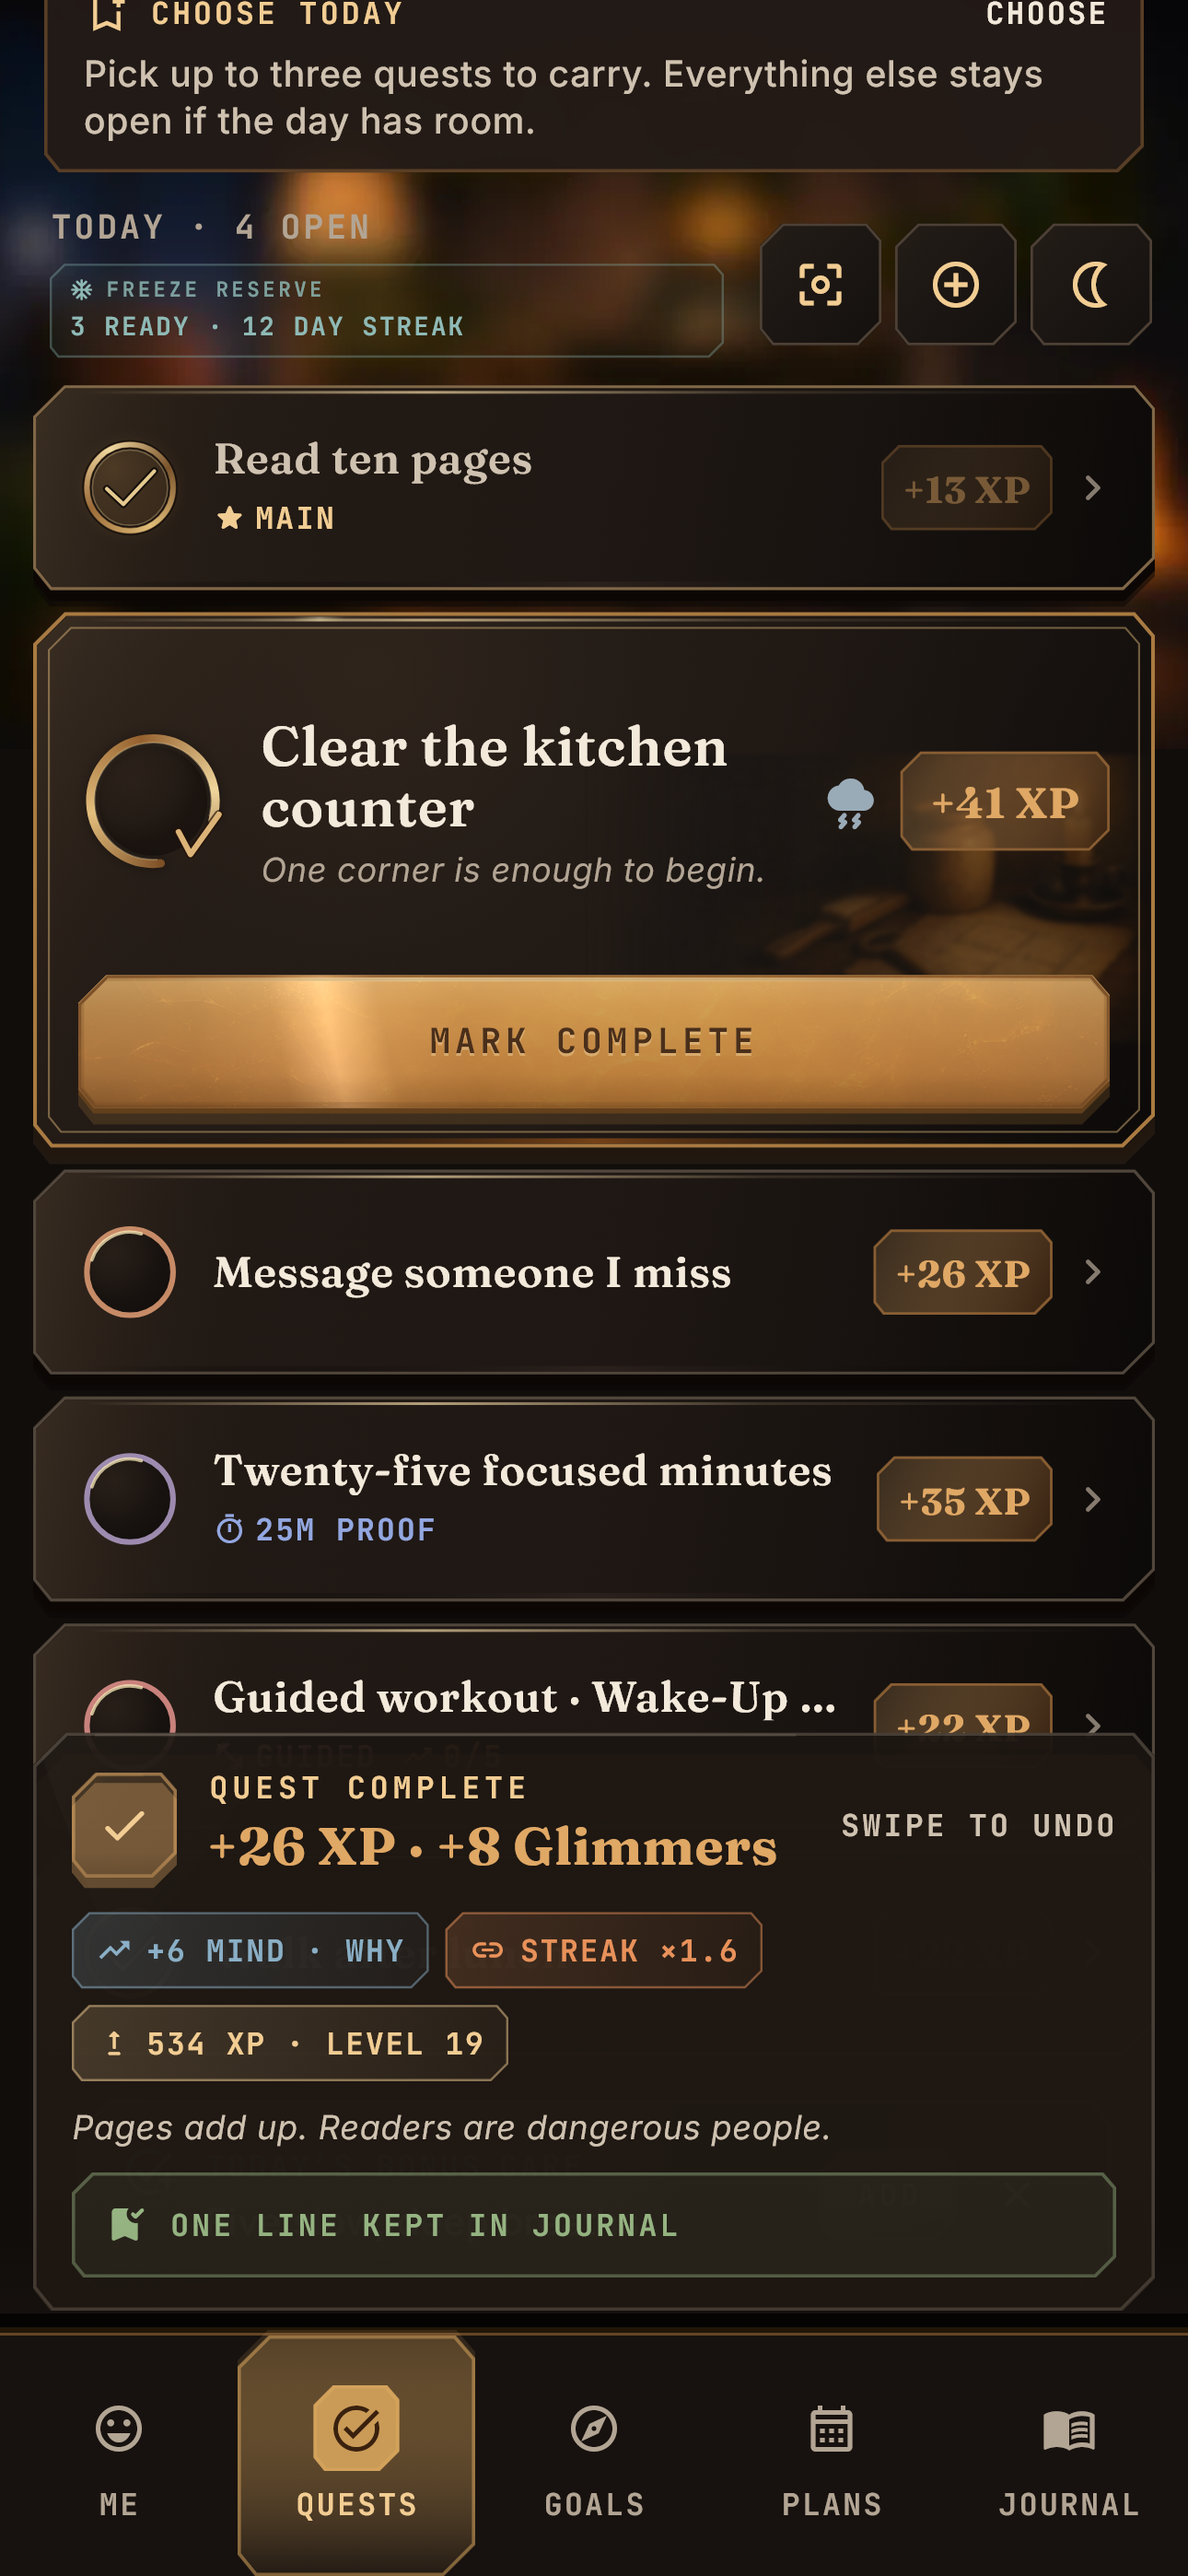
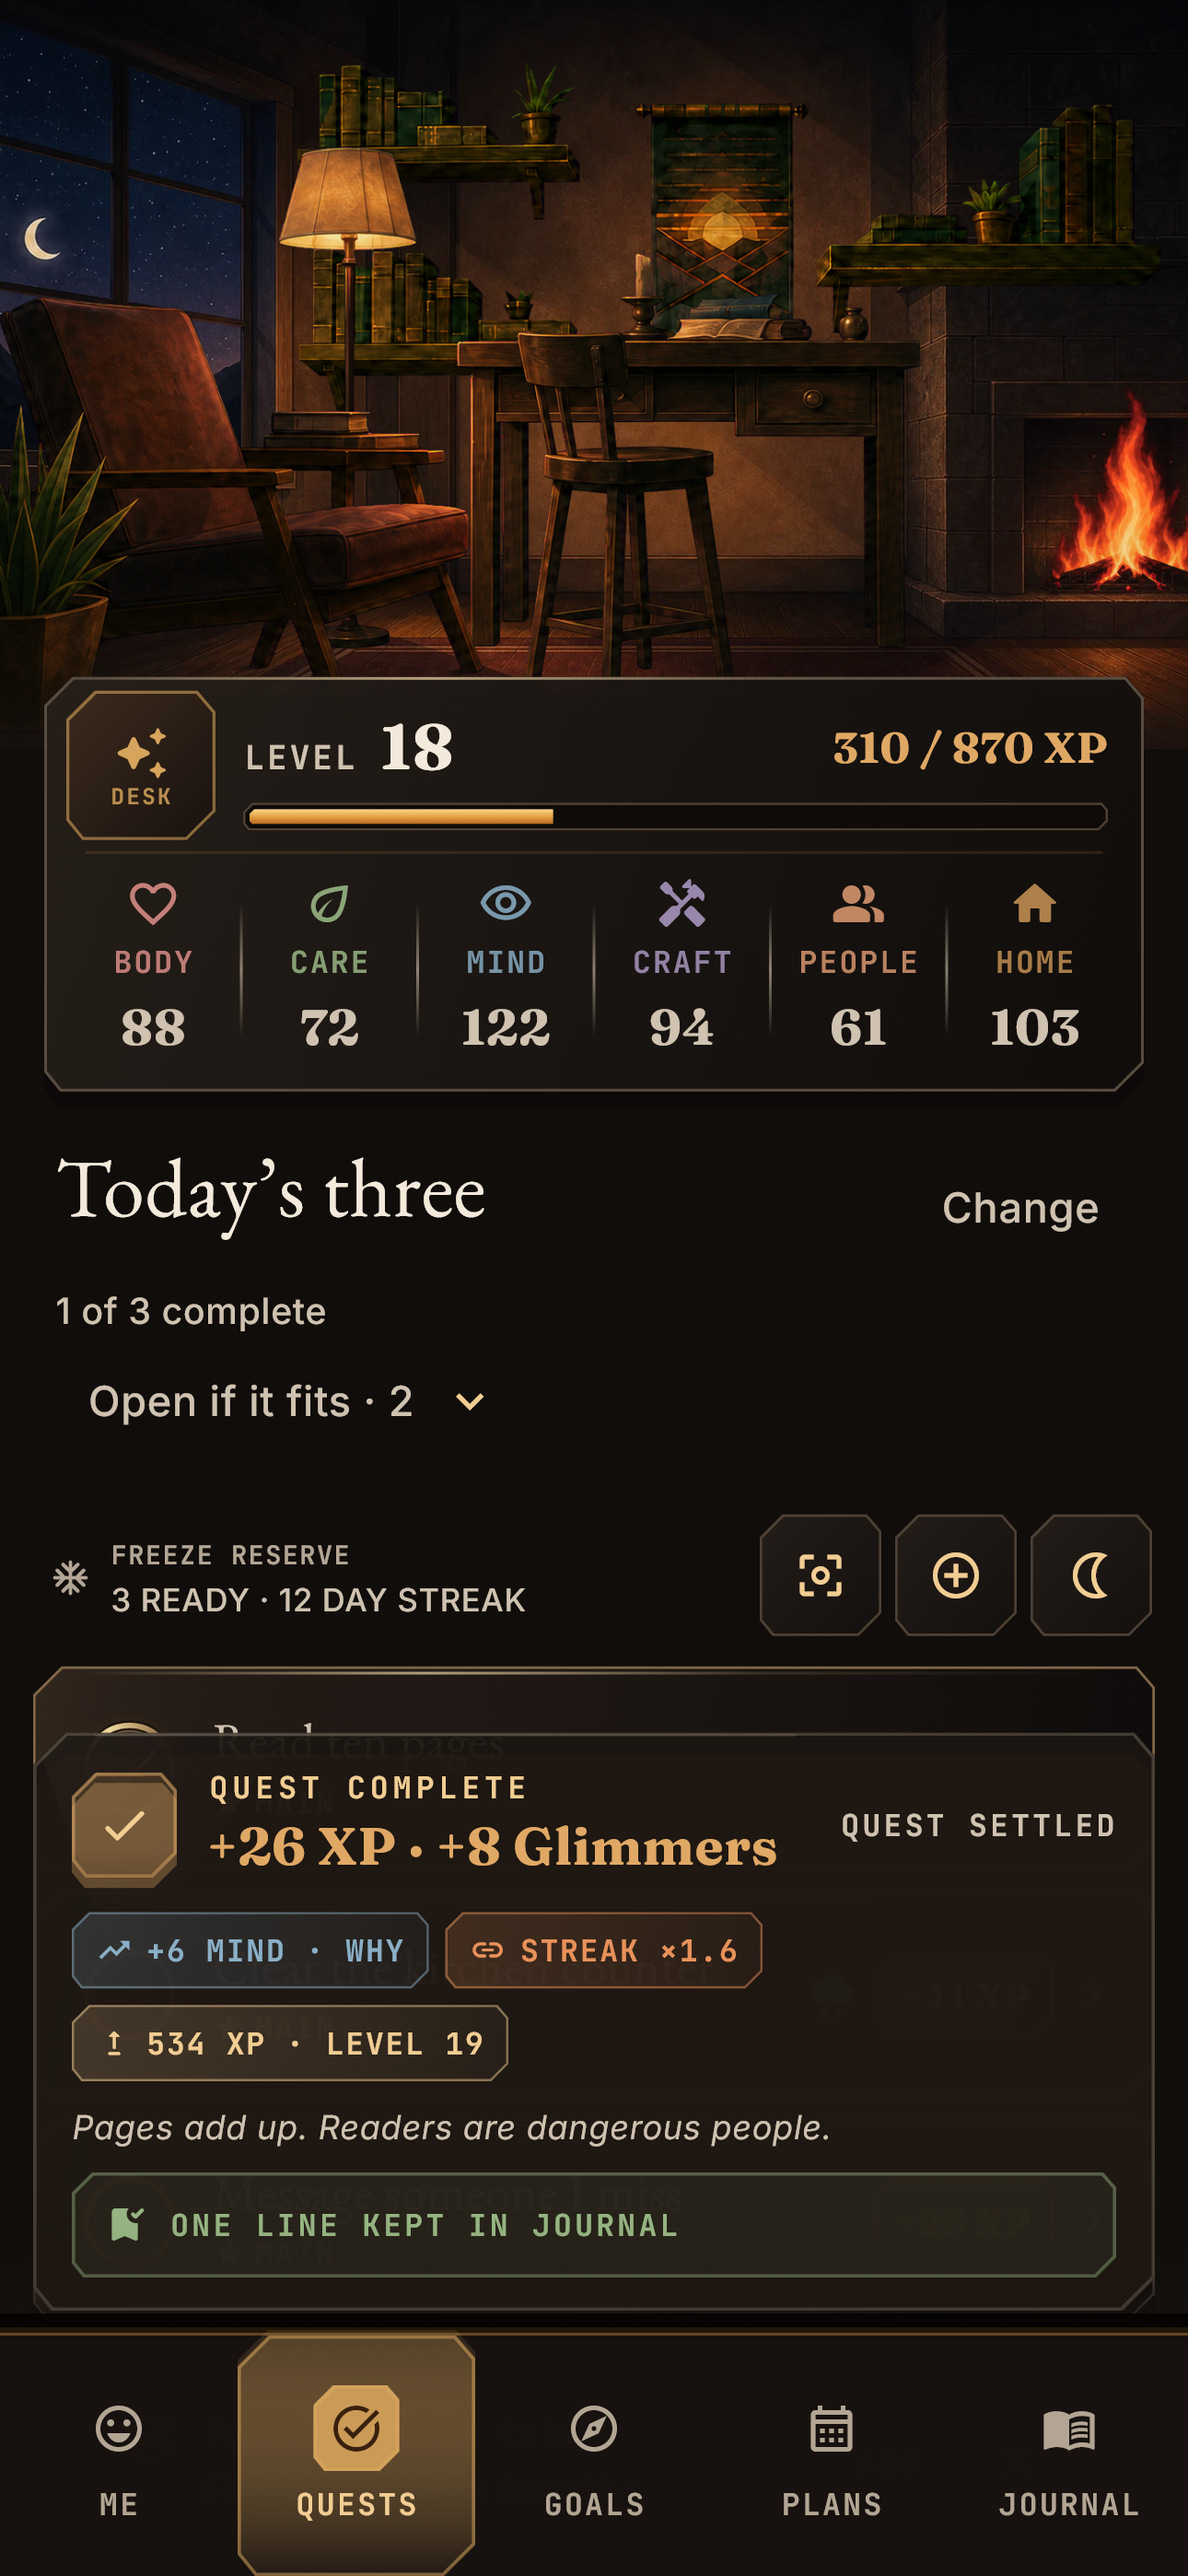
Prepare Build 42 store screenshots and verify deployed sharing backend

Changed region(s): [[0.0, 0.0, 1.0, 0.7157], [0.9612, 0.5912, 0.9922, 0.6223]]

diff --git a/test/screenshots_test.dart b/test/screenshots_test.dart
@@ -9,6 +9,8 @@
 // CAPTURE_STORE alone for the Goals frames whose native-density setup is kept
 // separate from the broader audit dump. With only CAPTURE_GOLDENS, the tests
 // still pass while every store_*.png remains stale.
+// CAPTURE_STORE_DAILY_ONLY is a follow-up pass for the first two App Store
+// frames: it seeds the day through applyDailyField and stops after the reward.
 // Add CAPTURE_PLAY=true to render the five submission frames again at a native
 // 1080×1920 Play Store viewport. Google Play rejects the taller 1290×2796
 // iPhone class because its long edge is more than twice its short edge.
@@ -126,6 +128,7 @@ class _FlamePalettePainter extends CustomPainter {
 
 const _capture = bool.fromEnvironment('CAPTURE_GOLDENS');
 const _captureStore = bool.fromEnvironment('CAPTURE_STORE');
+const _captureStoreDailyOnly = bool.fromEnvironment('CAPTURE_STORE_DAILY_ONLY');
 const _capturePlay = bool.fromEnvironment('CAPTURE_PLAY');
 
 Future<void> _shoot(WidgetTester tester, Widget w, String name) async {
@@ -1622,6 +1625,16 @@ void main() {
       ),
       workoutLauncherQuest(),
     ];
+    // A targeted App Store follow-up presents an intentional day. Keep the
+    // normal regression and full capture story untouched; this opt-in uses the
+    // same date-scoped operation as the real planner.
+    if (_captureStoreDailyOnly) {
+      applyDailyField(quests, Clock.now(), [
+        'Read ten pages',
+        'Clear the kitchen counter',
+        'Message someone I miss',
+      ]);
+    }
     SharedPreferences.setMockInitialValues({
       whatsNewSeenReleasePreferenceKey: currentRoomReleaseNotes.id,
       'liferpg_save_v1': jsonEncode({
@@ -1671,6 +1684,14 @@ void main() {
     await tester.pump(const Duration(milliseconds: 730));
     await _storeShot(tester, '02_reward_1290x2796');
     await _playStoreShot(tester, '02_reward_1080x1920');
+
+    // The targeted selected-day capture ends at the completion receipt. The
+    // ordinary full story continues into its downstream visual audit journey.
+    if (_captureStoreDailyOnly) {
+      await tester.pumpWidget(const SizedBox.shrink());
+      await tester.pump();
+      return;
+    }
 
     // The optional ten-second Journal door is part of the production reward
     // path, not a disconnected mock. Keep one real line so the later Journal
@@ -3293,9 +3314,7 @@ void main() {
     if (_capture) {
       await expectLater(
         find.byType(MaterialApp),
-        matchesGoldenFile(
-          'goldens/goals_recovery_smaller_review_430x932.png',
-        ),
+        matchesGoldenFile('goldens/goals_recovery_smaller_review_430x932.png'),
       );
     }
     expect(
@@ -3824,7 +3843,9 @@ void main() {
     expect(tester.takeException(), isNull);
   });
 
-  testWidgets('goals personal index: active exact Quest handoff', (tester) async {
+  testWidgets('goals personal index: active exact Quest handoff', (
+    tester,
+  ) async {
     final storeCapture = _captureStore && !_capture;
     tester.view.devicePixelRatio = storeCapture ? 3 : 1;
     await tester.binding.setSurfaceSize(const Size(430, 932));
@@ -3977,6 +3998,13 @@ void main() {
     }
     if (storeCapture) {
       await _storeShot(tester, 'goals_active_1290x2796');
+      final workshop = find.byKey(const Key('goals-open-workshop'));
+      await tester.ensureVisible(workshop);
+      await tester.tap(workshop);
+      await tester.pumpAndSettle();
+      await _storeShot(tester, 'goals_workshop_1290x2796');
+      await tester.binding.handlePopRoute();
+      await tester.pumpAndSettle();
     }
     expect(tester.takeException(), isNull);
 

diff --git a/STORE-LISTING.md b/STORE-LISTING.md
@@ -20,9 +20,10 @@ productivity language.
 
 ## App Store What's New — Version 1.0.4 (Build 42)
 
-> Submission hold: paste this only after the signed iPhone archive, real Home
-> Screen widget, `.ics` Open In, reminder, lock-screen redaction, and class-
-> boundary refresh checks pass. Remove any sentence whose device gate fails.
+The owner approved Build 42 for public TestFlight and App Store submission on
+September 6, 2026. The submission uses that signed binary with freshly captured
+app screenshots and the matching deployed sharing backend; individual device
+checks are recorded only where observed, not inferred from this approval.
 
 Goals and Quests now keep today’s three close at hand, with suggested next
 steps you can choose to bring into focus. Workshop has a permanent entrance
@@ -105,7 +106,7 @@ Room of Days turns everyday effort into Quests, XP, character growth, and a
 warm personal room. Core play works offline without an account. Progress
 stays with you through days away, and cosmetics are earned through play.
 
-Build 42 is an internal candidate for the updated Goals and Quests experience,
+Build 42 brings the updated Goals and Quests experience,
 Workshop polish, Refined taps, and the new Lamp left on room music. It includes:
 
 - Choose today’s three from Goals or Quests, consider suggested Quests, and
@@ -160,9 +161,8 @@ reminder permission timing, the two iPhone widget sizes across a class ending,
 and Focus music's one-tap quiet path. Then recheck upgrade persistence, room
 continuity, the optional photo's private default and deliberate sharing choice,
 today's selections versus optional Quests, the Steward's reading flow, and the
-complete two-person Circle journey. Physical-phone accessibility, listening
-taste, signed widget/App Group, and signed social checks still need confirmation
-before any public release.
+complete two-person Circle journey. Feedback on accessibility, phone-speaker
+and headphone listening, widget refreshes, and shared-room behavior is welcome.
 
 ## What to Test
 
@@ -672,22 +672,19 @@ and [label management](https://developer.apple.com/help/app-store-connect/manage
 
 ## Screenshot story
 
-The checked-in ten-frame set is Build 39 evidence. Do not relabel it as Build
-40. After the signed iPhone/device pass, recapture real production UI with no
-device frame and tell these ten moments in one consistent visual language:
+The Build 42 set contains ten freshly rendered production app views, without
+device frames or overlay copy:
 
-1. **Your day, as kinder quests** — one achievable action, not a dashboard.
-2. **School joins the day gently** — the class import review with reminders in
-   the first screen and no save before confirmation.
-3. **The next right thing stays close** — a real iPhone Home Screen with the
-   medium Day Ledger widget; never manufacture this frame in a test harness.
-4. **The day has a shape** — Plans, the next class, and the calendar together.
-5. **A real win becomes progress** — the reward receipt with XP and Glimmers.
-6. **A goal becomes inhabitable** — one grounded move in the living Goals room.
-7. **A changed day is not failure** — smaller, prepare, or leave today alone.
-8. **Sharing stays authored** — My Space with explicit card audiences.
-9. **The room can change completely** — a no-cost full-room preview.
-10. **What happened can be kept** — a private Journal note in context.
+1. **Choose today's three** — selected work and one achievable main Quest.
+2. **See the action count** — that Quest becoming XP, Glimmers, and progress.
+3. **Keep your goals close** — today's choices and a practical next step.
+4. **Return to Workshop** — existing work, routes to shape, and the Steward.
+5. **Let the plan bend** — smaller, prepare, or leave today alone.
+6. **Give the day a shape** — Plans, the next class, and the calendar.
+7. **Choose what visitors see** — My Space with explicit card audiences.
+8. **Make the room yours** — a no-cost full-room preview.
+9. **Keep what happened** — a private Journal note in context.
+10. **Find a few open doors** — optional Discover with clear listing controls.
 
 ## Store asset checklist
 
@@ -699,10 +696,10 @@ device frame and tell these ten moments in one consistent visual language:
 - App Store phone screenshots: ten opaque 24-bit RGB PNGs at Apple's accepted
   1290×2796 iPhone 6.9-inch class are in
   `store-assets/screenshots/app-store/`.
-- Those phone screenshots and `CANDIDATE-MANIFEST.json` are bound to Build 39.
-  A Build 42 submission requires a fresh capture, visual inspection, export,
-  and final manifest-only binding commit after the signed-device gates above;
-  the real Home Screen frame must show the new launcher icon and signed widget.
+- The ten phone screenshots were freshly rendered and inspected for Build 42.
+  `CANDIDATE-MANIFEST.json` records their exact hashes and the artifact-source
+  revision in a separate manifest-only commit. These are direct app UI captures;
+  they do not claim to show a physical Home Screen or WidgetKit screenshot.
 - The App Store sequence adds three production Goals frames before Plans so the
   Workshop and recovery contract are visible without overlay copy.
 - Google Play phone screenshots: the earlier five-state core story is independently

diff --git a/design/audits/2026-09-06/build42-public-submission-preparation.md b/design/audits/2026-09-06/build42-public-submission-preparation.md
@@ -1,0 +1,70 @@
+# Build 42 public submission preparation
+
+The owner approved public TestFlight distribution and App Store submission of
+1.0.4+42 on September 6, 2026, after testing the approved visual and sound work.
+This record describes preparation and verified backend repair. Apple review
+and distribution status must be recorded separately from live portal evidence.
+
+## Binary identity
+
+- Signed app source: `5b9f31f5fb2b75df3047cc28bf0f4a3dc741ec9b`.
+- Existing TestFlight receipt: `7fe4527399ce8fdf15ce1d838a0b663e13a8c04d`.
+- Codemagic build: `6a9e14403cf4759eab81ec80`; terminal check `101596347908` succeeded.
+- App Store Connect: app `6781401469`, bundle `com.mikabe.emberkeep`, version
+  1.0.4, Build 42 processed and ready for submission.
+- This preparation changes listing assets, capture scaffolding, documentation,
+  and a release verification tool only. It does not change the signed runtime.
+
+## Discover repair
+
+Manage Listing publishes the current room before presenting listing controls.
+The installed Build 42 writes room schema v8, but production still had August
+24 Firestore rules and sharing functions. The client translated the resulting
+permission rejection into the misleading sharing-update message. An emulator
+probe reproduced the denied v8 owner-room/registry batch under those live rules.
+
+Deployed the existing Build 42 Firestore and Storage rules and seven sharing
+functions, preserving App Check and public-name moderation. Provisioned the
+configured default Firebase Storage bucket in us-central1 and granted its
+service agent the scoped Firestore-rule evaluation role required for photo
+ownership checks. No account-wide permissions or public access were opened.
+
+Live verification at 2026-09-07T02:50:16Z confirmed:
+
+- Firestore ruleset: `22f0e2cf-0032-4442-8e93-981b770ea5be`.
+- Storage ruleset: `1a2bfb29-b3b9-4f57-b67a-cdd6481c81c0`.
+- Bucket: `emberkeep-5b33b.firebasestorage.app`.
+- All seven functions active; immutable deployed runtime sources match freshly
+  compiled source; expected App Check and public-name settings preserved.
+- Current Firestore rules: 16 passing tests. Storage rules: 4 passing tests.
+- Functions: 134 passing tests across 7 suites; the 20 emulator tests were run
+  separately. Photo schema/cleanup: 19 passing tests. Lint and build passed.
+
+`tool/verify_live_sharing_backend.ps1` reproduces the live source/configuration
+checks without cloud mutations. It writes a non-secret JSON receipt into the
+ignored output directory. Downloaded deployment archives must remain local.
+These checks do not stand in for an observed signed-device interaction; an
+owner retry of Manage Listing has been requested and is recorded separately.
+
+## Screenshots and listing
+
+Ten fresh production Flutter views were rendered and exported as opaque RGB
+1290 x 2796 PNGs. The sequence shows today's three, a real completion receipt,
+Goals, Workshop, recovery, Plans, My Space, a room change, Journal, and Discover.
+All frames were visually inspected. Synthetic demonstration content is confined
+to the screenshot fixture; no live user save was seeded or changed.
+
+The capture harness opens Workshop through its real entrance. An explicit
+`CAPTURE_STORE_DAILY_ONLY` follow-up pass seeds the chosen three through the
+real daily-selection operation and captures Quests/reward. The ordinary
+production story remains intact and passed separately. Reproduction commands
+are in `store-assets/screenshots/README.md`.
+
+The manifest-only receipt follows this artifact-source commit in a clean
+checkout, binds all ten PNG hashes to version 1.0.4+42 and its exact source,
+and is checked with `dart run tool/verify_store_submission.dart --ios-only`.
+The source snapshot and receipt are not a replacement native build.
+
+The owner authorized submission; this does not imply every physical-device
+edge case was personally observed. Apple review, external tester availability,
+and App Store publication remain distinct states in the final delivery record.

diff --git a/store-assets/screenshots/README.md b/store-assets/screenshots/README.md
@@ -3,8 +3,8 @@
 These are direct production-UI captures from one deterministic account. They
 have no device frame, overlay copy, alpha channel, or transparency.
 
-The ten-frame iOS set was regenerated from the feature-on `1.0.4+39`
-working candidate and visually inspected on September 1, 2026. It
+The ten-frame iOS set was regenerated from the feature-on `1.0.4+42`
+production UI and visually inspected on September 6, 2026. It
 becomes immutable release evidence only after the manifest-only binding commit
 described below is complete.
 
@@ -27,7 +27,7 @@ release evidence.
 
 The App Store sequence is:
 
-1. Quests — today's selected work, optional Quests, six life domains, and an achievable main quest.
+1. Quests — today's selected work, six life domains, and an achievable main quest.
 2. Reward — a completed quest becoming XP, Glimmers, a stat gain, and streak
    progress.
 3. Goals — today's chosen work and one clear next action inside the warm Goals room.
@@ -52,7 +52,12 @@ Suggested Google Play alt text (each under 140 characters):
 4. `Living Conservatory room preview with a Move In button and no-cost switching.`
 5. `Private Journal with an earlier note placed beside the progress that followed.`
 
-Regenerate the production screenshot story, inspect every selected frame, then
-run `dart run tool/export_store_screenshots.dart`. The exporter rejects
-transparent pixels, converts Flutter's RGBA captures losslessly to 24-bit RGB
-PNG, verifies dimensions, and removes the retired direct-folder set.
+Regenerate in two passes, inspect every selected frame, then run
+`dart run tool/export_store_screenshots.dart --ios-only`.
+
+1. Full story: `flutter test --update-goldens --dart-define=CAPTURE_GOLDENS=true --dart-define=CAPTURE_STORE=true test/screenshots_test.dart`
+2. Selected-day Quests and reward: `flutter test --update-goldens --dart-define=CAPTURE_STORE=true --dart-define=CAPTURE_STORE_DAILY_ONLY=true test/screenshots_test.dart --plain-name "store screenshot story: real production surfaces"`
+
+The exporter rejects transparent pixels, converts Flutter's RGBA captures
+losslessly to 24-bit RGB PNG, verifies dimensions, and removes the retired
+direct-folder set.
